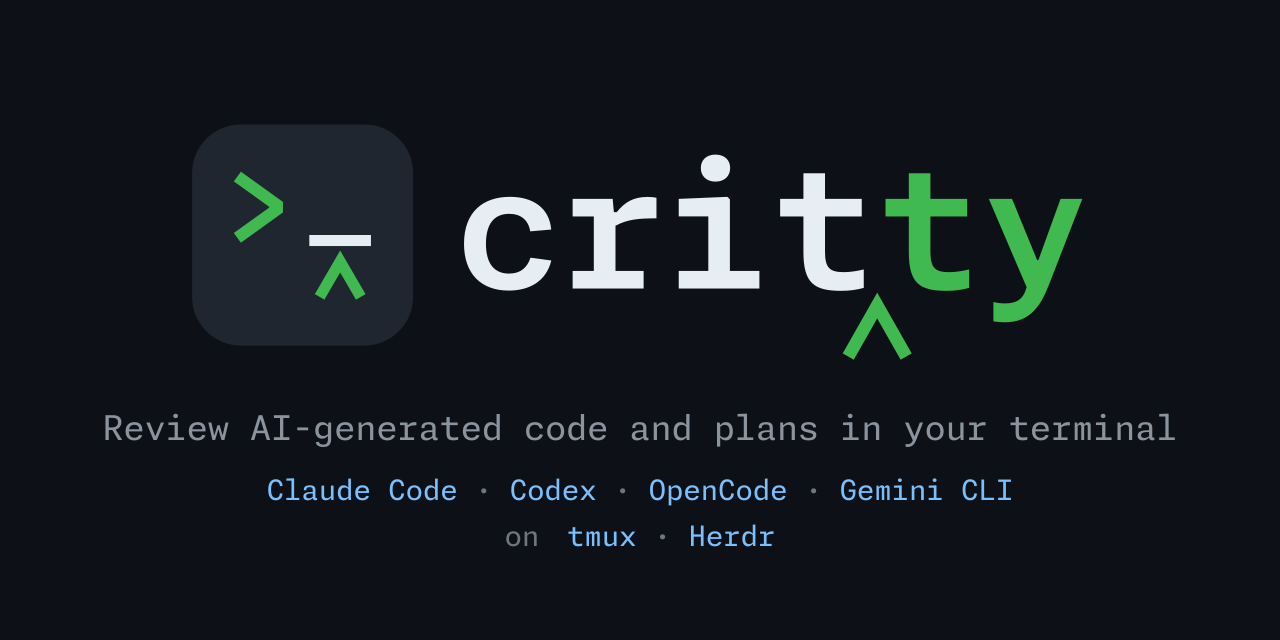
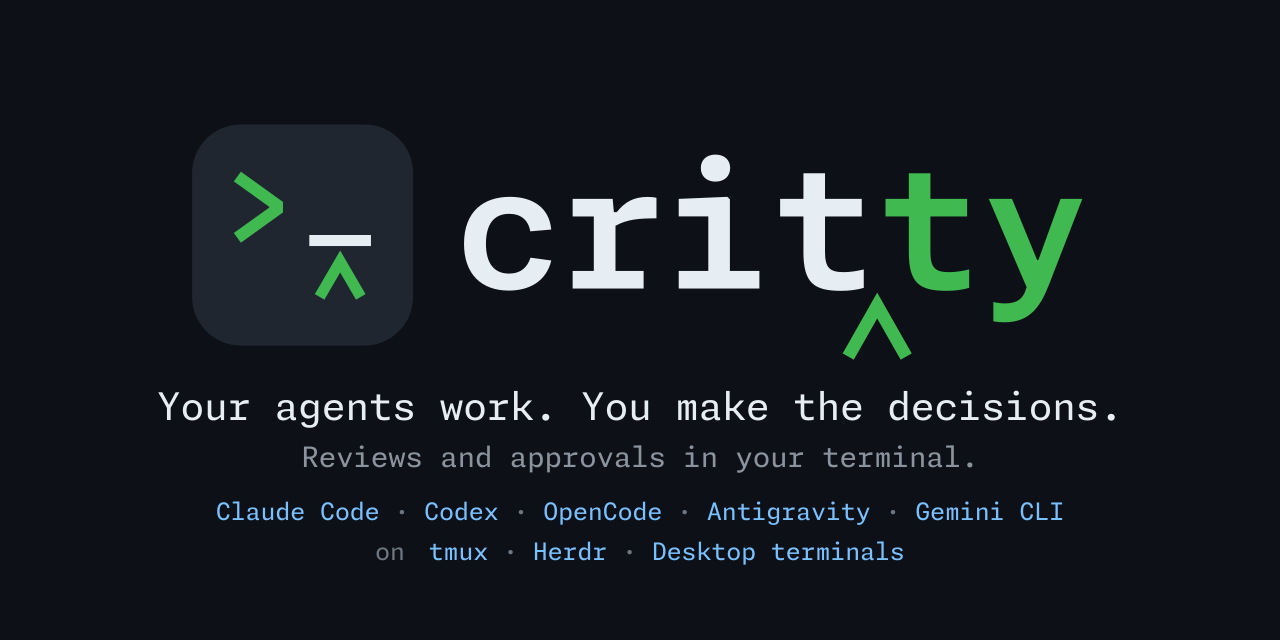
Refresh the social preview message
Pair the new headline with a short description of reviews and
approvals.  Include Antigravity and desktop terminal support in the
integration lines, and regenerate the SVG and PNG from the script.

Changed region(s): [[0.0625, 0.625, 0.9375, 0.875]]

diff --git a/assets/generate.py b/assets/generate.py
@@ -136,9 +136,10 @@ def logo(face: Face, theme: Theme, boxed: bool) -> str:
 
 
 PREVIEW_W, PREVIEW_H = 1280, 640
-TAGLINE = "Review AI-generated code and plans in your terminal"
-AGENTS = ["Claude Code", "Codex", "OpenCode", "Gemini CLI"]
-TERMINALS = ["tmux", "Herdr"]
+TAGLINE = "Your agents work. You make the decisions."
+SUBTITLE = "Reviews and approvals in your terminal."
+AGENTS = ["Claude Code", "Codex", "OpenCode", "Antigravity", "Gemini CLI"]
+TERMINALS = ["tmux", "Herdr", "Desktop terminals"]
 TOOL, MUTED, QUIET = "#79c0ff", "#8b949e", "#6e7681"
 
 
@@ -183,10 +184,11 @@ def social_preview(mark: Face, body: Face) -> str:
     logo_body += wordmark(mark, PAD + TILE + GAP, base, theme.ink, theme.accent)
     x, y = (PREVIEW_W - w * scale) / 2, 235 - h * scale / 2
     out = f'<g transform="translate({x:.1f} {y:.1f}) scale({scale})">{logo_body}</g>'
-    out += text_line(body, [(TAGLINE, MUTED)], 34, 440)
-    out += text_line(body, tools(AGENTS), 28, 500)
+    out += text_line(body, [(TAGLINE, DARK_INK)], 38, 420)
+    out += text_line(body, [(SUBTITLE, MUTED)], 28, 467)
+    out += text_line(body, tools(AGENTS), 24, 520)
     # Give "on" a little more room than a single space before the terminals.
-    out += text_line(body, [("on", QUIET), ("1.6", None)] + tools(TERMINALS), 28, 546)
+    out += text_line(body, [("on", QUIET), ("1.6", None)] + tools(TERMINALS), 24, 560)
     return svg(PREVIEW_W, PREVIEW_H, out, theme.paper)
 
 
